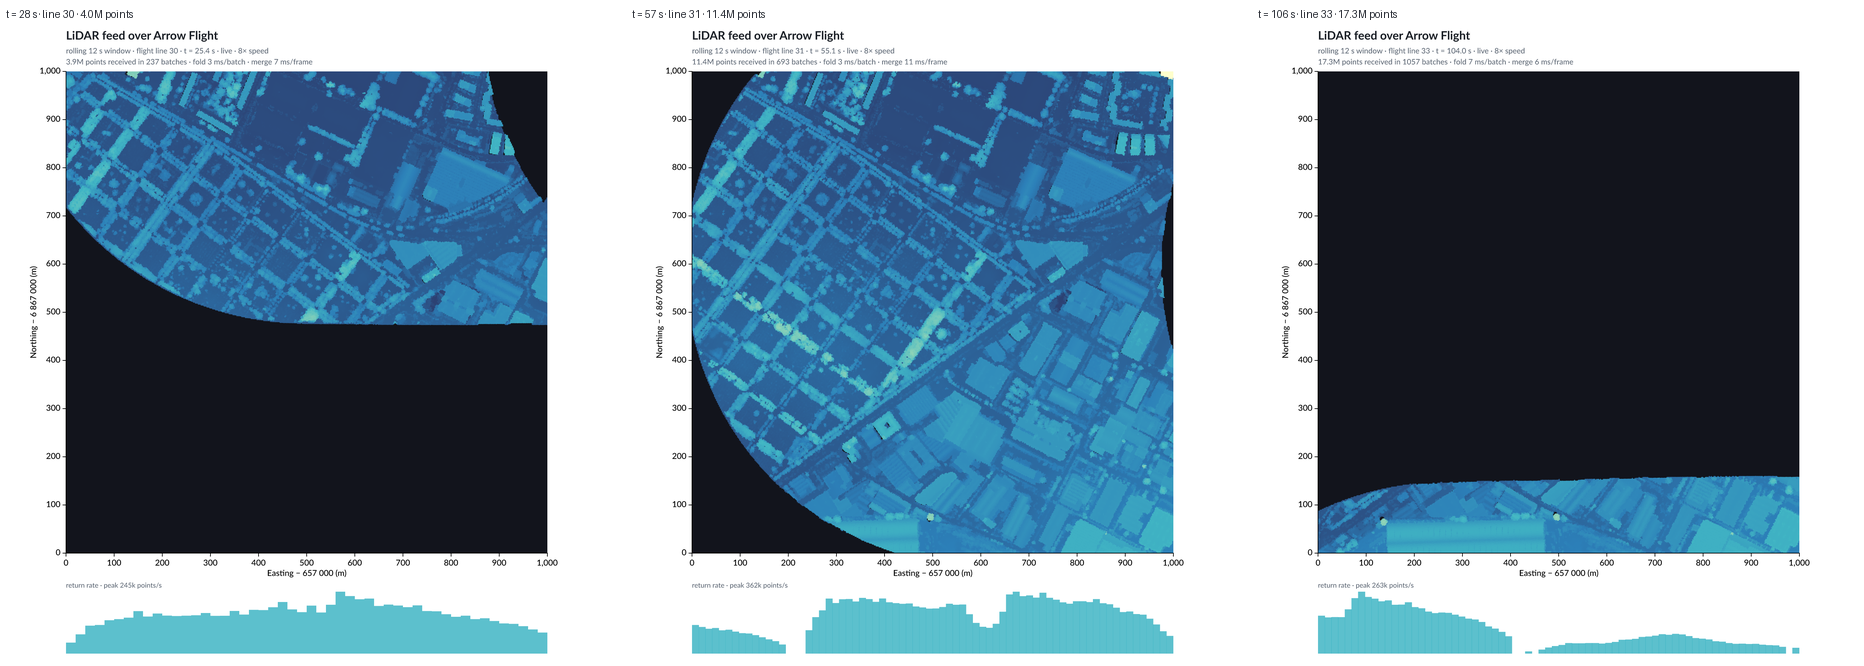
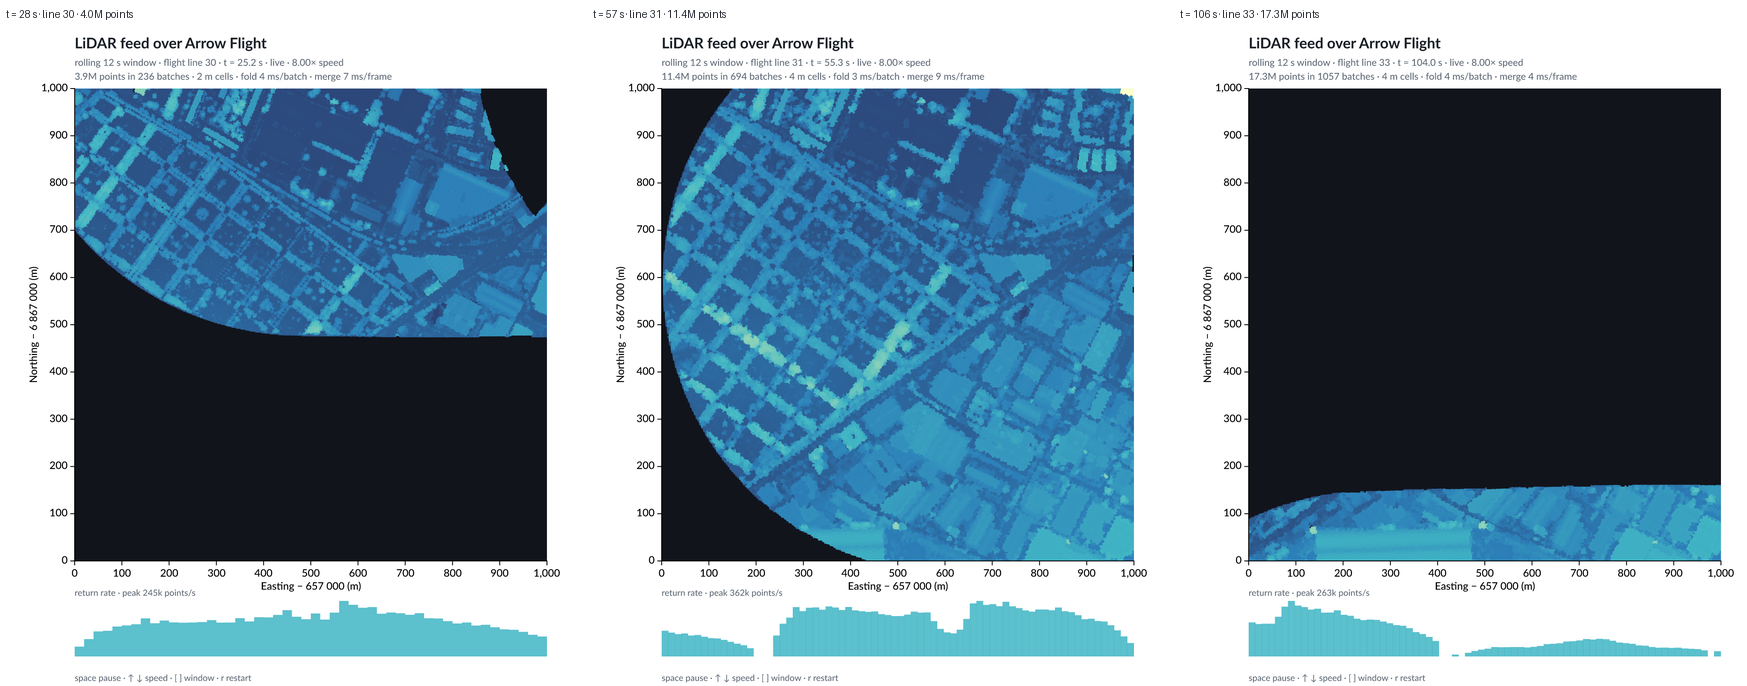
Fit the live viewer on screen and let it be driven
The window opened taller than a small screen, so the sparkline fell off
the bottom: the layout now derives the map size from the window and
follows it on resize, the default window fits a 1280 x 800 screen, and
--size overrides it.

Keyboard control: space pauses, the arrow keys change the replay speed,
[ and ] change the rolling window, and r restarts. A speed change
reconnects with a Flight ticket carrying the new speed and the point to
resume from, so nothing is replayed twice.

Frame cost scales with the number of marks (~1.4 us per cell), so a long
window drawn at 2 m ran at 3 fps and looked stuck. The states are now
rolled up to a coarser grid when the window holds more than ~55k cells,
which is free because states merge at any resolution, and redraw
requests are throttled: about 11 fps with the default window.

Changed region(s): [[0.0, 0.0, 0.6491, 1.0], [0.68, 0.0, 0.9891, 1.0]]

diff --git a/src/bin/stream_live.rs b/src/bin/stream_live.rs
@@ -56,8 +56,12 @@ use futures::StreamExt;
 use tonic::transport::Channel;
 use winit::window::WindowAttributes;
 
-/// Cell size of the live map, in metres.
+/// Cell size the arriving points are folded into, in metres.
 const CELL: f32 = 2.0;
+/// How many cells the map aims to draw. Frame cost scales with this: about
+/// 1.4 us per cell per frame, so a window holding 200k cells would crawl.
+/// When the window holds more, the states are rolled up to a coarser grid.
+const TARGET_CELLS: usize = 55_000;
 const TILE_M: f32 = 1000.0;
 const SPARK_H: f32 = 64.0;
 /// Space around the map: axis labels and titles on the left and top, the
@@ -72,7 +76,6 @@ const MUTED: [f32; 4] = [0.38, 0.42, 0.47, 1.0];
 const RAMP: [&str; 5] = ["#2c3a6b", "#2c7fb8", "#41b6c4", "#a1dab4", "#ffffcc"];
 
 /// What the feed task shares with the renderer.
-#[derive(Default)]
 struct Live {
     /// Per-batch aggregate states, newest last: (stream time, state batch).
     states: VecDeque<(f64, RecordBatch)>,
@@ -84,7 +87,26 @@ struct Live {
     line: i32,
     last_batch_ms: f64,
     cells: usize,
+    /// Grid the states are rolled up to for drawing, in metres.
+    step_m: f32,
     finished: bool,
+}
+
+impl Default for Live {
+    fn default() -> Self {
+        Self {
+            states: VecDeque::new(),
+            history: VecDeque::new(),
+            stream_t: 0.0,
+            points: 0,
+            batches: 0,
+            line: 0,
+            last_batch_ms: 0.0,
+            cells: 0,
+            step_m: CELL,
+            finished: false,
+        }
+    }
 }
 
 /// What the viewer can change while the feed is running. Every change bumps
@@ -154,21 +176,26 @@ async fn fold_batch(
     Ok(arrow::compute::concat_batches(&out[0].schema(), &out)?)
 }
 
-/// Merges the retained states into the current picture of the rolling window.
+/// Merges the retained states into the current picture of the rolling window,
+/// rolled up to a `step` metre grid. States merge at any resolution, so a
+/// longer window costs a coarser map rather than a slower frame.
 async fn merge_window(
     ctx: &SessionContext,
     states: Vec<RecordBatch>,
+    step: f32,
 ) -> datafusion::error::Result<RecordBatch> {
     let schema = states[0].schema();
     let merged = arrow::compute::concat_batches(&schema, &states)?;
     ctx.register_batch("states", merged)?;
     let out = ctx
-        .sql(
-            "SELECT cx, cy,
+        .sql(&format!(
+            "SELECT CAST(floor(cx / {step}) * {step} + {half} AS DOUBLE) AS cx,
+                    CAST(floor(cy / {step}) * {step} + {half} AS DOUBLE) AS cy,
                     CAST(maxMerge(zmax_s) AS FLOAT) AS zmax,
                     CAST(countMerge(n_s) AS BIGINT) AS n
-             FROM states GROUP BY cx, cy",
-        )
+             FROM states GROUP BY 1, 2",
+            half = step / 2.0
+        ))
         .await?
         .collect()
         .await?;
@@ -213,7 +240,15 @@ async fn consume(
         let mut client = FlightClient::new(channel);
         let ticket = Ticket::new(format!("{{\"speed\": {speed}, \"from\": {resume_from}}}"));
         let mut stream = client.do_get(ticket).await?;
+        let resume_from_at_connect = resume_from;
         live.lock().unwrap().finished = false;
+        let connected_at = Instant::now();
+        // The window cannot draw faster than this, and asking more often only
+        // queues work: one redraw request per frame budget is enough.
+        let mut last_request = Instant::now() - std::time::Duration::from_secs(1);
+        let mut since_report = Instant::now();
+        let mut folded_ms = 0.0f64;
+        let mut folded_n = 0u32;
 
         let mut reconnect = false;
         while let Some(batch) = stream.next().await {
@@ -275,11 +310,29 @@ async fn consume(
             resume_from = t_end;
 
             if let Some(hub) = &hub {
-                hub.request_render(RenderInvalidationRequest::now(
-                    RenderInvalidationReason::EvaluationChanged {
-                        kind: "lidar-stream".to_string(),
-                    },
-                ));
+                if last_request.elapsed().as_millis() >= 40 {
+                    hub.request_render(RenderInvalidationRequest::now(
+                        RenderInvalidationReason::EvaluationChanged {
+                            kind: "lidar-stream".to_string(),
+                        },
+                    ));
+                    last_request = Instant::now();
+                }
+            }
+
+            folded_ms += elapsed_ms;
+            folded_n += 1;
+            if std::env::var("STREAM_DEBUG").is_ok() && since_report.elapsed().as_secs_f64() > 2.0 {
+                // How far the viewer has fallen behind the sensor's clock.
+                let due = (t_end - resume_from_at_connect).max(0.0) / speed;
+                let lag = connected_at.elapsed().as_secs_f64() - due;
+                println!(
+                    "feed: t {t_end:6.1} s · lag {lag:5.2} s · fold {:.1} ms avg over {folded_n} batches",
+                    folded_ms / folded_n as f64
+                );
+                since_report = Instant::now();
+                folded_ms = 0.0;
+                folded_n = 0;
             }
 
             if control.lock().unwrap().generation != start_gen {
@@ -347,11 +400,13 @@ struct Builder;
 #[async_trait::async_trait]
 impl SceneGraphBuilder<State> for Builder {
     async fn build(&self, s: &mut State) -> Result<SceneGraph, AvengerAppError> {
-        let (states, live) = {
+        let (states, step, live) = {
             let l = s.live.lock().unwrap();
             let states: Vec<RecordBatch> = l.states.iter().map(|(_, b)| b.clone()).collect();
+            let step = l.step_m;
             (
                 states,
+                step,
                 (
                     l.stream_t,
                     l.points,
@@ -366,9 +421,7 @@ impl SceneGraphBuilder<State> for Builder {
         let (stream_t, points, batches, line, batch_ms, history, finished) = live;
         let control = *s.control.lock().unwrap();
         let plot = s.plot();
-        if std::env::var("STREAM_DEBUG").is_ok() {
-            println!("frame: stream t {stream_t:.1} s · {batches} batches");
-        }
+        let frame_start = Instant::now();
 
         let px_per_m = plot / TILE_M;
         let mut marks: Vec<SceneMark> = Vec::new();
@@ -387,11 +440,12 @@ impl SceneGraphBuilder<State> for Builder {
         );
 
         let mut merge_ms = 0.0;
+        let mut cell_count = 0usize;
         if !states.is_empty() {
             let ctx = s.ctx.clone();
             let t0 = Instant::now();
             let cells =
-                s.rt.spawn(async move { merge_window(&ctx, states).await })
+                s.rt.spawn(async move { merge_window(&ctx, states, step).await })
                     .await
                     .map_err(|e| AvengerAppError::InternalError(e.to_string()))?
                     .map_err(|e| AvengerAppError::InternalError(e.to_string()))?;
@@ -415,6 +469,17 @@ impl SceneGraphBuilder<State> for Builder {
                 .as_primitive::<Int64Type>();
 
             let len = cells.num_rows();
+            cell_count = len;
+            // Keep the frame affordable: coarsen when the window holds too
+            // many cells, and go finer again when it empties out.
+            {
+                let mut l = s.live.lock().unwrap();
+                if len > TARGET_CELLS * 3 / 2 && l.step_m < 32.0 {
+                    l.step_m *= 2.0;
+                } else if len < TARGET_CELLS / 3 && l.step_m > CELL {
+                    l.step_m /= 2.0;
+                }
+            }
             let xs: Vec<f32> = (0..len).map(|i| cx.value(i) as f32 * px_per_m).collect();
             let ys: Vec<f32> = (0..len)
                 .map(|i| plot - cy.value(i) as f32 * px_per_m)
@@ -431,12 +496,16 @@ impl SceneGraphBuilder<State> for Builder {
             // Cells that collected more returns are drawn slightly larger.
             let sizes: Vec<f32> = counts
                 .iter()
-                .map(|c| (2.0 + c.min(40.0) * 0.12) * px_per_m * CELL)
+                .map(|c| (2.0 + c.min(40.0) * 0.12) * px_per_m * step)
                 .collect();
 
             marks.push(
                 SceneGroup {
                     origin: [0.0, 0.0],
+                    // Nothing hit-tests the map, and leaving it out of the
+                    // geometry index saves rebuilding an R-tree over every
+                    // cell on each frame.
+                    interactive: false,
                     clip: Clip::Rect {
                         x: 0.0,
                         y: 0.0,
@@ -505,6 +574,7 @@ impl SceneGraphBuilder<State> for Builder {
             marks.push(
                 SceneGroup {
                     origin: [0.0, plot + 46.0],
+                    interactive: false,
                     marks: vec![
                         SceneRectMark {
                             len: history.len() as u32,
@@ -562,7 +632,7 @@ impl SceneGraphBuilder<State> for Builder {
                 ),
                 (
                     format!(
-                        "{:.1}M points received in {batches} batches · fold {batch_ms:.0} ms/batch · merge {merge_ms:.0} ms/frame",
+                        "{:.1}M points in {batches} batches · {step:.0} m cells · fold {batch_ms:.0} ms/batch · merge {merge_ms:.0} ms/frame",
                         points as f64 / 1e6
                     ),
                     0.0,
@@ -574,6 +644,14 @@ impl SceneGraphBuilder<State> for Builder {
             ])
             .into(),
         );
+
+        if std::env::var("STREAM_DEBUG").is_ok() {
+            println!(
+                "frame: t {stream_t:6.1} s · build {:5.1} ms (merge {merge_ms:5.1} ms) · {} cells",
+                frame_start.elapsed().as_secs_f64() * 1000.0,
+                cell_count
+            );
+        }
 
         marks.push(
             text_mark(vec![(

diff --git a/README.md b/README.md
@@ -128,9 +128,33 @@ N seconds of scanning:
   into the current picture (2–11 ms). Raw points are never revisited, and
   states that fall out of the window are simply dropped.
 - **Redraw:** the feed thread calls `RenderInvalidationHub::request_render`, so
-  the window rebuilds when data arrives instead of polling. Invalidations are
-  coalesced: 1022 batches arriving over 25 s produced 140 scene rebuilds
-  (~6 fps).
+  the window rebuilds when data arrives instead of polling, at most 25 times a
+  second.
+- **Adaptive grid:** frame cost scales with the number of marks, about 1.4 us
+  per cell, so a long window drawn at 2 m would crawl. When the window holds
+  more than about 55k cells the states are rolled up to a coarser grid (4 m,
+  8 m, …) and back again as it empties. States merge at any resolution, so this
+  costs nothing but the grid itself. With the default 20 s window the viewer
+  runs at about 11 frames per second instead of 3.
+
+In the viewer:
+
+| Key | Effect |
+|---|---|
+| space | pause and resume |
+| ↑ / ↓ (or + / -) | double or halve the replay speed, 0.25× to 32× |
+| [ / ] | shorten or lengthen the rolling window |
+| r | restart the flight |
+
+A speed change reconnects with a new Flight ticket carrying the new speed and
+the point to resume from, so nothing is replayed twice:
+
+```
+client connected: 105.6 s of flight from t = 56.6 s at 2x (24.5 s of wall clock)
+```
+
+The window is sized to fit a small screen and the layout follows it when you
+resize; `--size 1200x1000` starts it larger.
 
 The viewer controls the feed from the keyboard: **space** pauses, **↑ ↓**
 (or **+ -**) halve or double the replay speed between 0.25× and 32×, **[ ]**
@@ -201,6 +225,7 @@ Timings measured on an Apple Silicon Mac:
 | Rendering 1M points to a 2× PNG | 0.2–0.3 s |
 | Streaming: fold one 16k-point batch into cell states | 2–7 ms |
 | Streaming: merge a 12 s window into the current frame | 2–11 ms |
+| Streaming: whole frame, ~40k cells | ~90 ms (about 11 fps) |
 
 ## Versions and pitfalls
 
